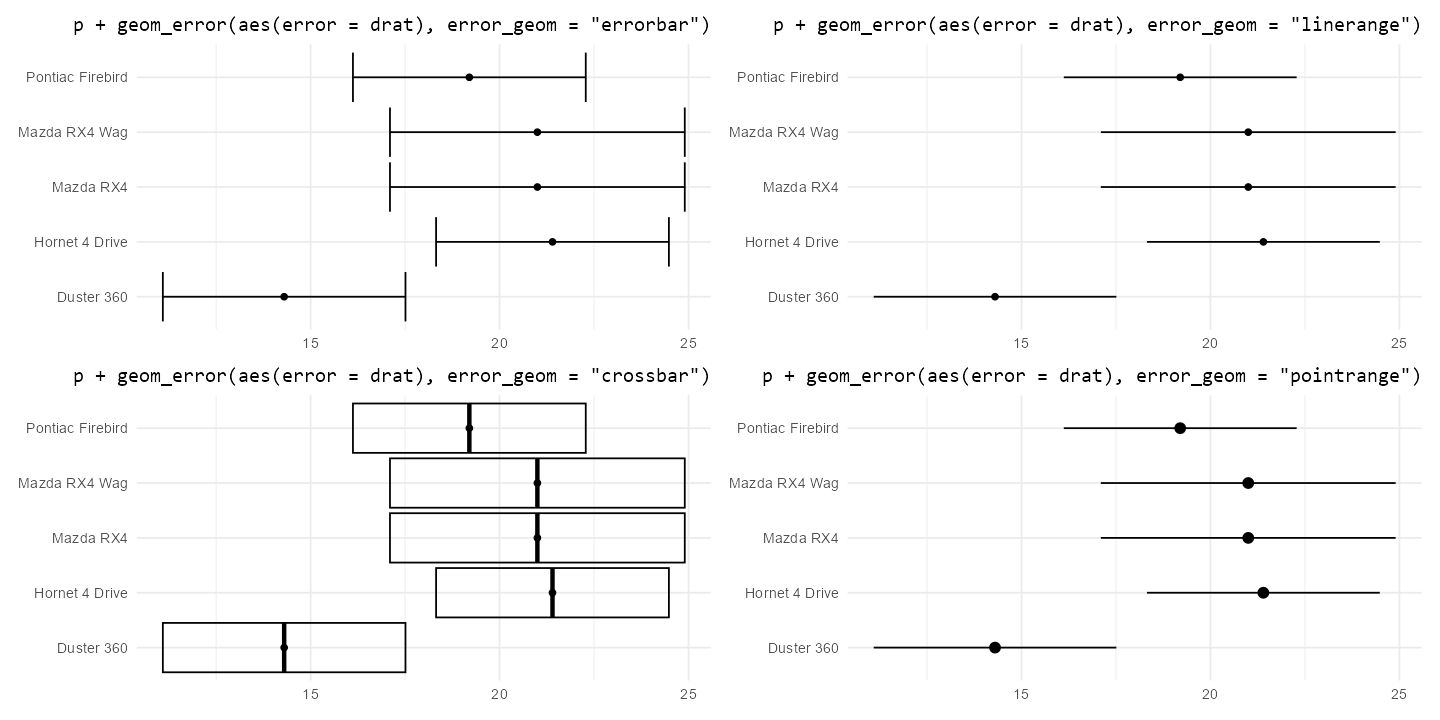
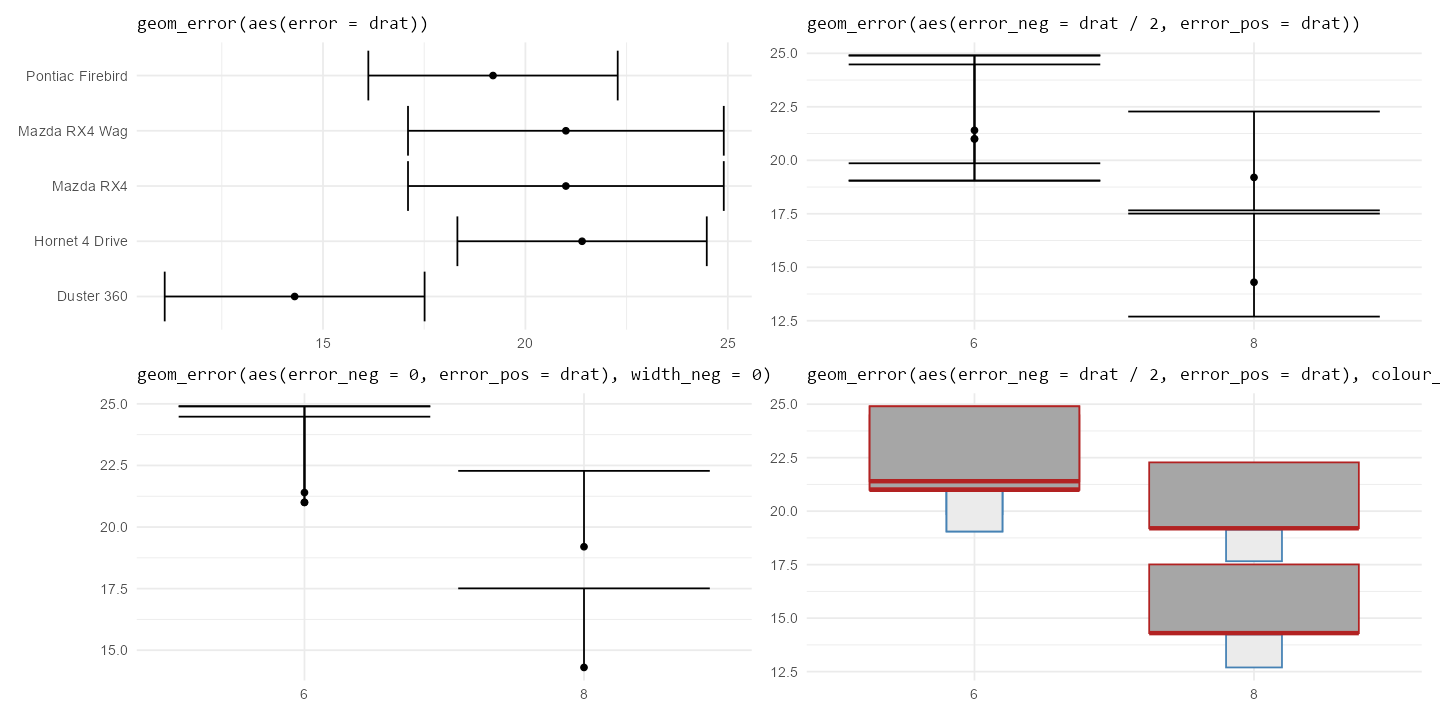
docs refresh 0.3.0 release surface

diff --git a/README.md b/README.md
@@ -2,48 +2,44 @@
 
 [![ORCID](https://img.shields.io/badge/ORCID-0009--0009--0509--3609-A6CE39?logo=orcid&logoColor=white)](https://orcid.org/0009-0009-0509-3609)
 
-`ggerror` is a lightweight wrapper around **ggplot2**'s error geoms.
-It replaces manual `ymin` / `ymax` or `xmin` / `xmax` wiring with one
-`error` aesthetic, automatic orientation inference, and a single dispatch
-point for the core range geoms.
+`ggerror` extends **ggplot2**'s range geoms with an error-first API.
+Instead of wiring `ymin` / `ymax` or `xmin` / `xmax` by hand, you supply
+`error`, or `error_neg` + `error_pos`, and use one interface across
+error bars, lineranges, crossbars, and pointranges.
 
 ### Motivation
-It reduces the easy-to-make mistakes in error-bar code: swapping bounds,
-choosing the wrong orientation, or reaching for the wrong geom variant.
-It also keeps the familiar `ggplot2` styling surface, including asymmetric
-errors and fixed per-side styling.
+
+It removes the mechanical error-bar work while keeping the usual `ggplot2`
+geoms, and adds asymmetric plus per-side styling when you need more control.
 
 ### Installation
-```r
+
+``` r
 pak::pak('iamyannc/ggerror')
 
 library(ggplot2)
 library(ggerror)
 
-p <- ggplot(mtcars, aes(mpg, rownames(mtcars))) +
+p <- ggplot(mtcars, aes(factor(cyl), mpg)) +
   geom_point()
 
-p + geom_error(aes(error = drat))
+p + geom_error(aes(error_neg = drat / 2, error_pos = drat))
 ```
 
-For a full tour of symmetric, asymmetric, one-sided, and per-side styling
-patterns, see `vignette("ggerror")`.
+For a full tour of symmetric, asymmetric, one-sided, and per-side styling,
+see `vignette("ggerror")`.
 
-<a href="man/figures/examples.png">
-  <img src="man/figures/examples.png" alt="ggerror example geoms" width="100%" />
-</a>
+<a href="man/figures/examples.png"> <img src="man/figures/examples.png" alt="ggerror example geoms" width="100%"/> </a>
 
 ### Supported geoms
 
-| ggplot2 Base | `geom_error(error_geom = ...)` | Specific Wrapper |
-| :--- | :--- | :--- |
-| `geom_errorbar` | `"errorbar"` (default) | `geom_error()` |
-| `geom_linerange` | `"linerange"` | `geom_error_linerange()` |
-| `geom_pointrange` | `"pointrange"` | `geom_error_pointrange()` |
-| `geom_crossbar` | `"crossbar"` | `geom_error_crossbar()` |
+| ggplot2 Base      | `geom_error(error_geom = ...)` | Specific Wrapper          |
+|:------------------|:-------------------------------|:--------------------------|
+| `geom_errorbar`   | `"errorbar"` (default)         | `geom_error()`            |
+| `geom_linerange`  | `"linerange"`                  | `geom_error_linerange()`  |
+| `geom_pointrange` | `"pointrange"`                 | `geom_error_pointrange()` |
+| `geom_crossbar`   | `"crossbar"`                   | `geom_error_crossbar()`   |
 
 ### Disclaimer
-This package was developed with the assistance of AI tools.
-All code has been reviewed by the author, who remains responsible for its
-quality.
-Ideas for new geoms are welcome.
+
+This package was developed with the assistance of AI tools. All code has been reviewed by the author, who remains responsible for its quality. Ideas for new geoms are welcome.

diff --git a/NEWS.md b/NEWS.md
@@ -1,5 +1,7 @@
 # ggerror 0.3.0
 
+* `ggerror` now documents itself as an extension to 'ggplot2's range geoms,
+  rather than just a thin wrapper, reflecting the wider v0.3.0 feature set.
 * Added fixed per-side styling parameters for error bars: `colour_neg` /
   `colour_pos`, `fill_neg` / `fill_pos`, `linewidth_neg` / `linewidth_pos`,
   `linetype_neg` / `linetype_pos`, `alpha_neg` / `alpha_pos`, and
@@ -9,6 +11,8 @@
   `geom_error(aes(error_neg = 0, error_pos = se), width_neg = 0)`.
 * Added a `vignette("ggerror")` covering symmetric, asymmetric, one-sided,
   and per-side styling workflows.
+* Refreshed the README and example figure so the short-form package docs point
+  directly to the vignette and show v0.3.0 asymmetric / per-side usage.
 * Internal: preserved the existing fast path when no per-side overrides are
   supplied, and refactored split rendering so the shared midpoint is not
   drawn as an extra cap for `errorbar`.
